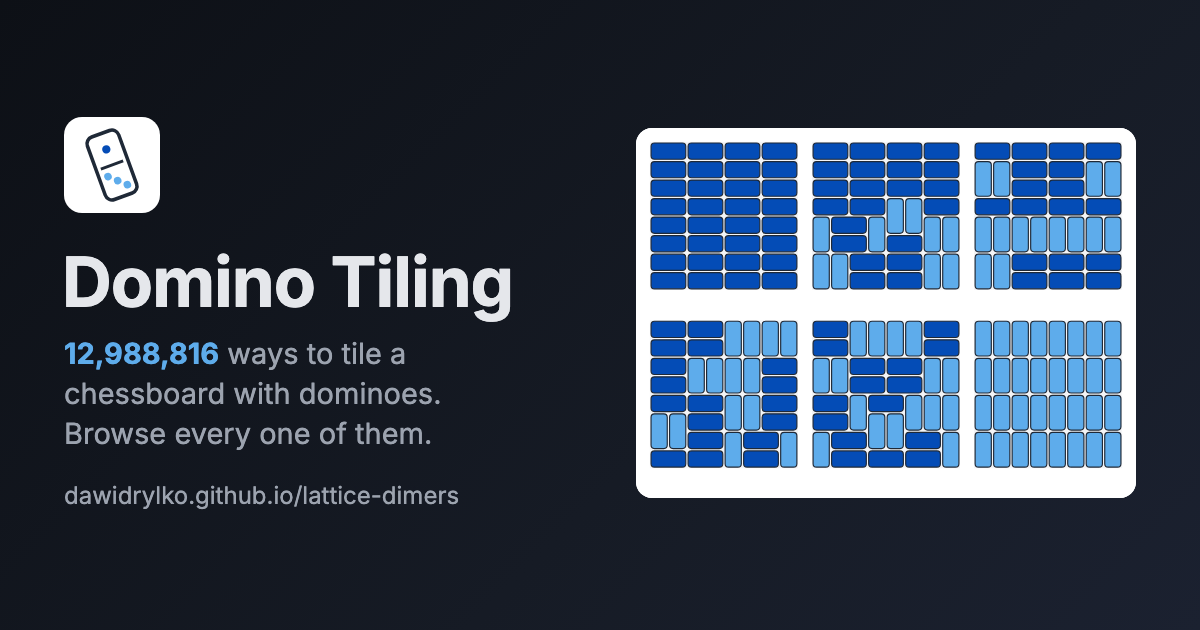
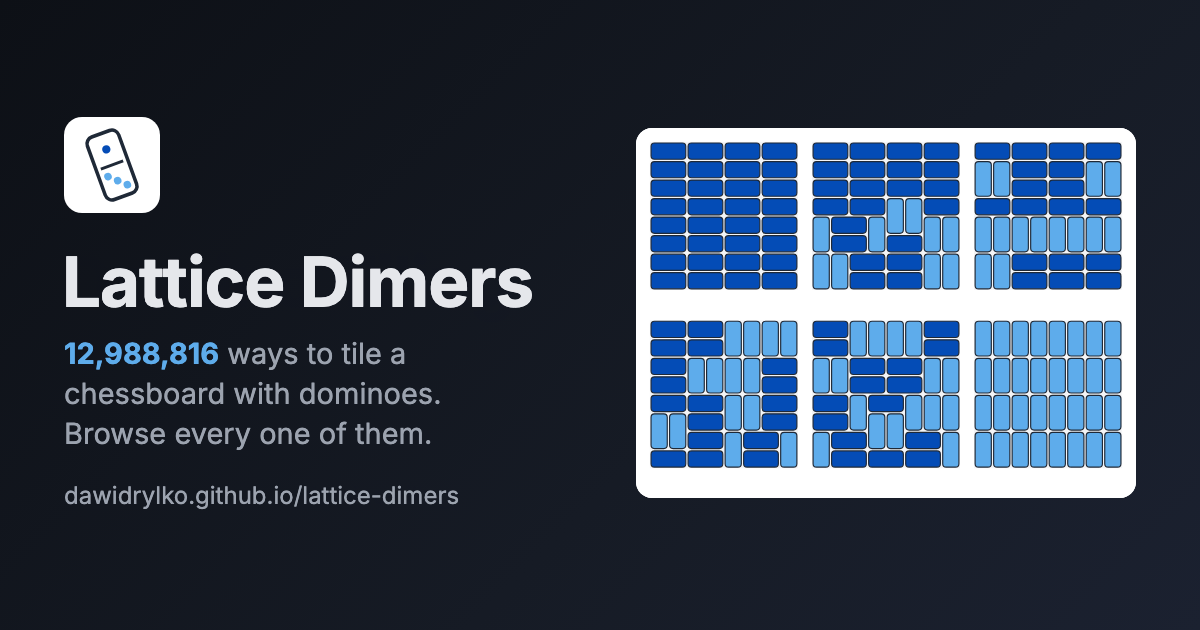
chore: rename the project display name to Lattice Dimers
Header logo, page titles, og:site_name, og:title, twitter:title, schema.org names, README heading, CITATION title and the social card title. Descriptive uses of domino tilings stay.

Changed region(s): [[0.0617, 0.3921, 0.4625, 0.5127]]

diff --git a/site/template.html b/site/template.html
@@ -3,7 +3,7 @@
 <head>
 <meta charset="utf-8">
 <meta name="viewport" content="width=device-width, initial-scale=1">
-<title>Domino Tiling: every tiling of a 2n × 2n board | Dawid Ryłko</title>
+<title>Lattice Dimers: every tiling of a 2n × 2n board | Dawid Ryłko</title>
 <meta name="description" content="Domino (OEIS A004003) and domicule (A239273) tilings of 2n×2n boards counted up to 20×20, with notebooks on the method, a gallery of every tiling up to 18×18 and solver benchmarks.">
 <meta name="author" content="Dawid Ryłko">
 <meta name="keywords" content="domino tiling, dimer coverings, OEIS A004003, domicule tiling, king's graph, perfect matchings, OEIS A239273, PARI/GP, chessboard, combinatorics, dynamic programming, bitmask, BigInt, JavaScript">
@@ -15,17 +15,17 @@
 <link rel="icon" href="domino.svg" type="image/svg+xml">
 <link rel="apple-touch-icon" href="apple-touch-icon.png">
 <meta property="og:type" content="website">
-<meta property="og:site_name" content="Domino Tiling">
+<meta property="og:site_name" content="Lattice Dimers">
 <meta property="og:locale" content="en_US">
 <meta property="og:url" content="__SITE_URL__">
-<meta property="og:title" content="Domino Tiling: every tiling of a 2n × 2n board and a solver benchmark">
+<meta property="og:title" content="Lattice Dimers: every tiling of a 2n × 2n board and a solver benchmark">
 <meta property="og:description" content="12,988,816 domino and 3,263,262,629,905 domicule tilings of a chessboard. Both sequences up to 20×20, notebooks on the method and a gallery of the tilings.">
 <meta property="og:image" content="__SITE_URL__og-image.png">
 <meta property="og:image:width" content="1200">
 <meta property="og:image:height" content="630">
 <meta property="og:image:alt" content="Six of the 12,988,816 domino tilings of an 8×8 board">
 <meta name="twitter:card" content="summary_large_image">
-<meta name="twitter:title" content="Domino Tiling: every tiling of a 2n × 2n board and a solver benchmark">
+<meta name="twitter:title" content="Lattice Dimers: every tiling of a 2n × 2n board and a solver benchmark">
 <meta name="twitter:description" content="12,988,816 domino and 3,263,262,629,905 domicule tilings of a chessboard. Both sequences up to 20×20, notebooks on the method and a gallery of the tilings.">
 <meta name="twitter:image" content="__SITE_URL__og-image.png">
 <meta name="twitter:image:alt" content="Six of the 12,988,816 domino tilings of an 8×8 board">

diff --git a/site/note-template.html b/site/note-template.html
@@ -3,7 +3,7 @@
 <head>
 <meta charset="utf-8">
 <meta name="viewport" content="width=device-width, initial-scale=1">
-<title>__TITLE__ | Domino Tiling</title>
+<title>__TITLE__ | Lattice Dimers</title>
 <meta name="description" content="__DESCRIPTION__">
 <meta name="author" content="Dawid Ryłko">
 <meta name="robots" content="index, follow">
@@ -14,7 +14,7 @@
 <link rel="apple-touch-icon" href="../apple-touch-icon.png">
 <link rel="stylesheet" href="https://cdnjs.cloudflare.com/ajax/libs/KaTeX/0.16.11/katex.min.css" integrity="sha384-nB0miv6/jRmo5UMMR1wu3Gz6NLsoTkbqJghGIsx//Rlm+ZU03BU6SQNC66uf4l5+" crossorigin="anonymous">
 <meta property="og:type" content="article">
-<meta property="og:site_name" content="Domino Tiling">
+<meta property="og:site_name" content="Lattice Dimers">
 <meta property="og:url" content="__URL__">
 <meta property="og:title" content="__TITLE__">
 <meta property="og:description" content="__DESCRIPTION__">

diff --git a/site/build.js b/site/build.js
@@ -266,13 +266,13 @@ function buildJsonLd() {
         '@type': 'WebSite',
         '@id': `${SITE_URL}#website`,
         url: SITE_URL,
-        name: 'Domino Tiling',
+        name: 'Lattice Dimers',
         inLanguage: 'en',
         author: AUTHOR,
       },
       {
         '@type': 'SoftwareSourceCode',
-        name: 'Domino Tiling',
+        name: 'Lattice Dimers',
         description:
           'Exact counts, numbering and sampling of domino tilings (OEIS A004003) and domicule tilings (OEIS A239264, A239273) of 2n×2n boards: a resultant form of the product formula, transfer-matrix solvers, a modular solver with the Chinese remainder theorem, PARI/GP programs and notebooks.',
         codeRepository: 'https://github.com/dawidrylko/lattice-dimers',

diff --git a/site/chrome.js b/site/chrome.js
@@ -26,7 +26,7 @@ const CHROME_CSS = `
  */
 function renderHeader({ root, current, notes }) {
   const home = root || './';
-  const logo = `<img src="${root}domino.svg" alt="" width="32" height="32">Domino Tiling`;
+  const logo = `<img src="${root}domino.svg" alt="" width="32" height="32">Lattice Dimers`;
   const brand = current === 'home' ? `<h1 class="brand">${logo}</h1>` : `<a class="brand" href="${home}">${logo}</a>`;
   const links = [
     { slug: 'home', href: home, label: 'Home' },

diff --git a/tests/siteTestRunner.js b/tests/siteTestRunner.js
@@ -572,7 +572,7 @@ async function checkChrome(page, baseUrl, width) {
   const home = await page.evaluate(READ_CHROME);
   const homeUrl = `${baseUrl}/`;
 
-  if (home.brand !== 'Domino Tiling' || !home.logo || !home.nav || !home.footer) {
+  if (home.brand !== 'Lattice Dimers' || !home.logo || !home.nav || !home.footer) {
     problems.push(`the main page header or footer is incomplete: ${JSON.stringify(home)}`);
   }
 

diff --git a/README.md b/README.md
@@ -1,4 +1,4 @@
-# <img src=".github/assets/domino.svg" alt="" width="36" height="36"> Domino and Domicule Tilings
+# <img src=".github/assets/domino.svg" alt="" width="36" height="36"> Lattice Dimers
 
 [![Continuous Integration](https://github.com/dawidrylko/lattice-dimers/actions/workflows/ci.yml/badge.svg)](https://github.com/dawidrylko/lattice-dimers/actions/workflows/ci.yml)
 [![Pages](https://github.com/dawidrylko/lattice-dimers/actions/workflows/pages.yml/badge.svg)](https://github.com/dawidrylko/lattice-dimers/actions/workflows/pages.yml)
